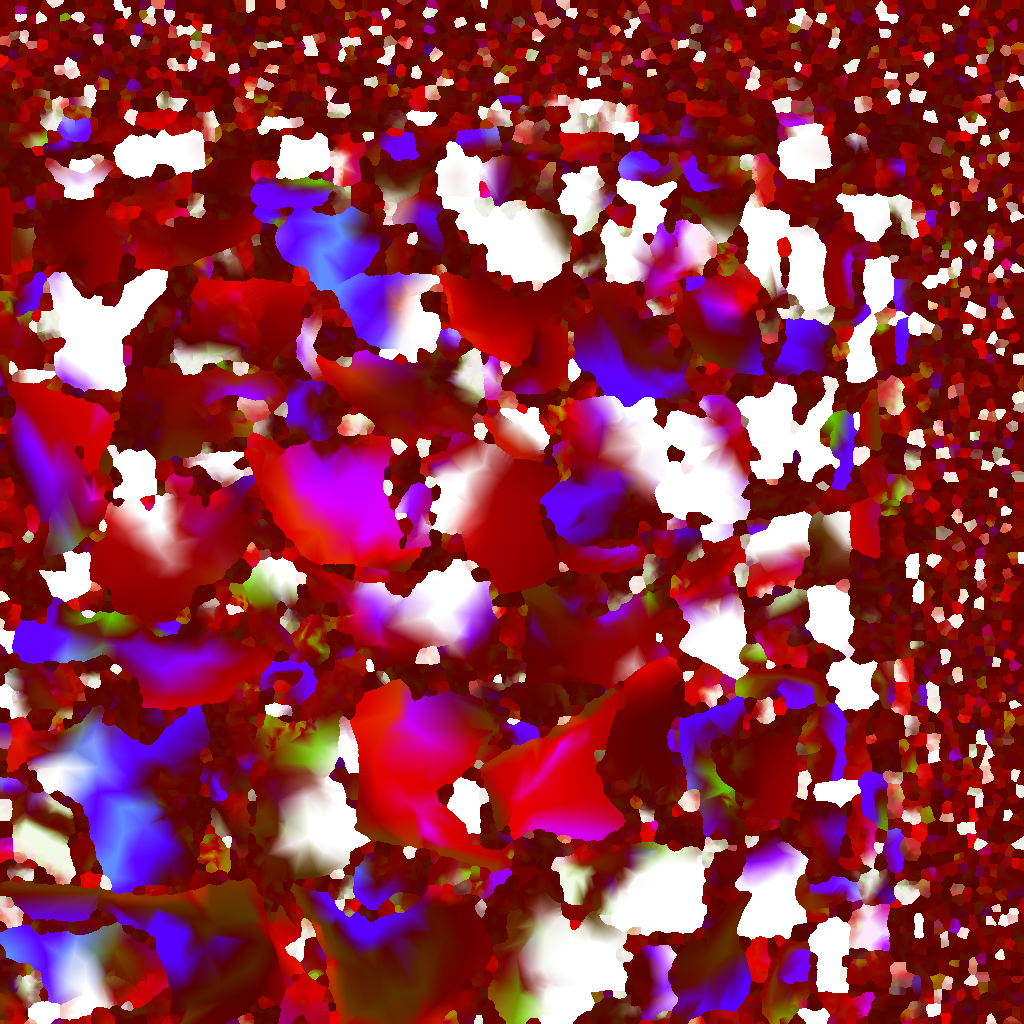
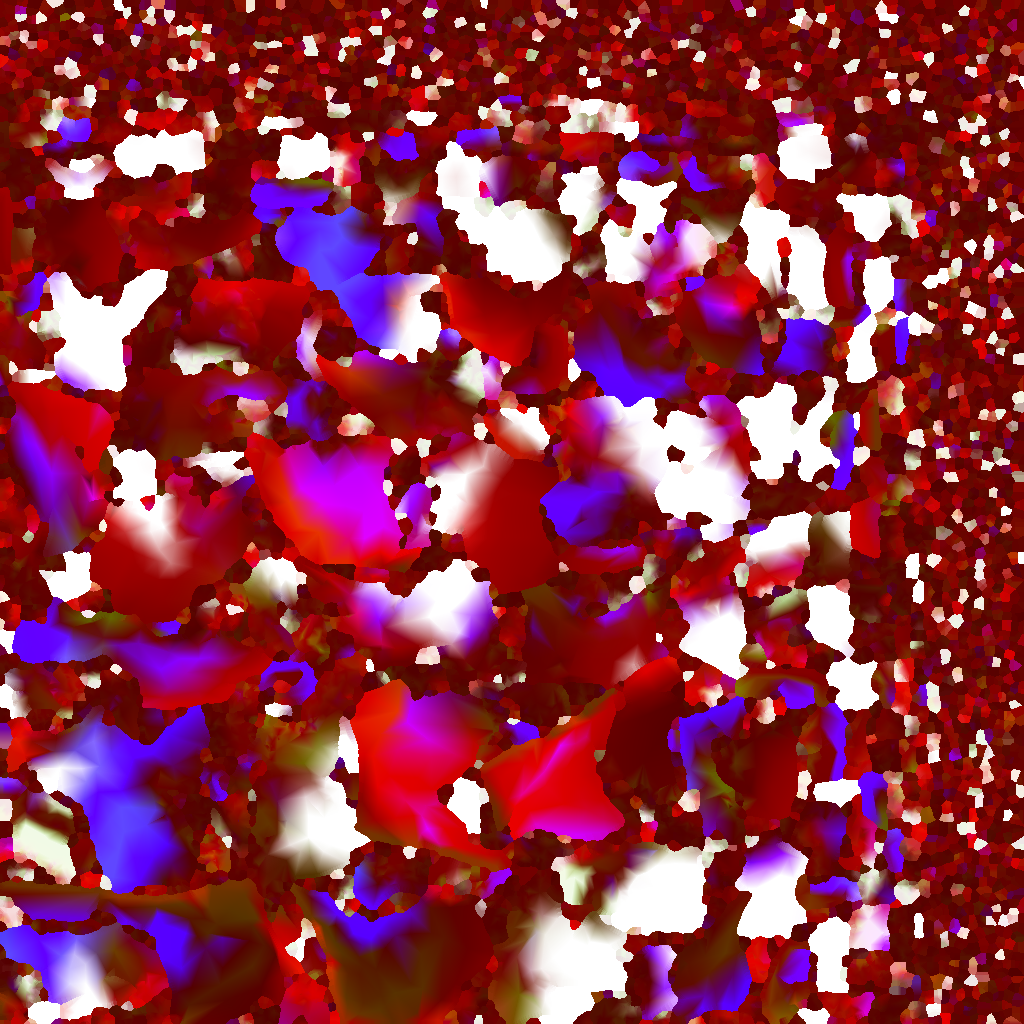
Warden 7 material (unjudged): face wet sheen halved on brow/cheekbones/bridge, lamp fill without glints, face normal 0.72; tabard matte faded blue with fade mottle, wet-dark lower third, hem mud, beard drip; quilting loft halved, uneven, worn and strap-pressed, matte darker; iron rough patches, pits

diff --git a/tools/assets/warden_id_map.py b/tools/assets/warden_id_map.py
@@ -12,7 +12,8 @@ by a 3D vote (fill3d()), then dilated gutters.
 Channels (2048, RGBA8; imported lossless, alpha untouched):
   R  class * 32 + puff (0..31): the class index (the shader texelFetches it and blends the 4 neighbours' params);
      the low bits (0..1): on the quilting, the padding's loft (0 in a stitch line, 1 on a channel's top: the shader
-     shades the grooves); elsewhere a free smooth noise (no shader reads it)
+     shades the grooves); on the tabard its fade (sun and river, 1 most faded); on the iron its convexity (0.5 flat,
+     1 a convex edge: wear; 0 a recess); elsewhere a free smooth noise
   G  bind height (y / 2 m): the wet gradient (soaked from the hem to the thigh, drier toward the shoulders)
   B,A  a detail normal (tangent-space x, y; 0.5 = flat): each class's 3D height (wool twill, tabard plain weave,
      quilting weave + sag and creasing noise, leather grain, iron dents), baked from the bind pose triplanar on the
@@ -28,13 +29,15 @@ Classes:
 
   python tools/assets/warden_wet_maps.py [PKG_DIR]     (first: its occlusion finds the face deep in the hood)
   python tools/assets/warden_id_map.py [PKG_DIR] [--size 2048] [--debug OUT_DIR]
-Writes PKG_DIR/id_generated.png (+ a class-colour picture in --debug OUT_DIR).
+Writes PKG_DIR/id_generated.png (+ a class-colour picture in --debug OUT_DIR), and fills wet_generated.png's B and A
+(body_extras(): the beard's drip, wet streaks; so run it after warden_wet_maps.py).
 Re-run after any change to body.glb's geometry or UVs (it reads only body.glb's "generated" surface).
 """
 import argparse, os, sys
 import numpy as np
 from PIL import Image
-from scipy import ndimage
+from scipy import ndimage, sparse
+from scipy.spatial import cKDTree
 
 sys.path.insert(0, os.path.dirname(os.path.abspath(__file__)))
 from warden_wet_maps import Glb  # noqa: E402
@@ -87,6 +90,27 @@ def raster_fields(uv, idx, vals, size):
     return out, have
 
 
+def curvature(P, N, idx, rings=3):
+    """Per-vertex convexity (m): the vertex against its welded neighbours' smoothed mean, along the smoothed normal;
+    + on convex edges (the iron's worn rims), - in recesses. The unwrap splits vertices at its seams: welded first."""
+    _, wid = np.unique(np.round(P / 1e-5).astype(np.int64), axis=0, return_inverse=True)
+    wid = wid.ravel(); nw = wid.max() + 1
+    e = wid[np.r_[idx[:, [0, 1]], idx[:, [1, 2]], idx[:, [2, 0]]]]
+    A = sparse.coo_matrix((np.ones(len(e) * 2), (np.r_[e[:, 0], e[:, 1]], np.r_[e[:, 1], e[:, 0]])), (nw, nw)).tocsr()
+    A.data[:] = 1.0
+    deg = np.maximum(np.asarray(A.sum(1)).ravel(), 1)[:, None]
+    cnt = np.bincount(wid, minlength=nw)[:, None].astype(float)
+    Pw = np.zeros((nw, 3)); np.add.at(Pw, wid, P); Pw /= cnt
+    Nw = np.zeros((nw, 3)); np.add.at(Nw, wid, N); Nw /= np.maximum(np.linalg.norm(Nw, axis=1, keepdims=True), 1e-9)
+    S = Pw.copy()
+    for _ in range(rings):
+        S = 0.5 * S + 0.5 * (A @ S) / deg
+    c = np.einsum("ij,ij->i", Pw - S, Nw)
+    for _ in range(1):
+        c = 0.5 * c + 0.5 * (A @ c[:, None]).ravel() / deg.ravel()
+    return c[wid]
+
+
 def seg_dist(P, a, b):
     """Distance from points to segment a-b and the parameter along it (0 at a, 1 at b)."""
     d = b - a
@@ -130,14 +154,15 @@ def features(pkg, size):
         arm[s] = np.where(dl < du, 1 + tl, tu)
         legr[s] = seg_dist(P[s], jpos[f"calf_{side}"], jpos[f"foot_{side}"])[0]
     arm *= (grp[:, 1] + grp[:, 2]) > 0.3  # (only on the arms: the legs sit near the forearm's line too)
-    vals = np.c_[P, N, grp, arm, legr, p["TANGENT"]].astype(np.float32)
+    curv = curvature(P, N, p["idx"])
+    vals = np.c_[P, N, grp, arm, legr, p["TANGENT"], curv].astype(np.float32)
     F, have = raster_fields(p["TEXCOORD_0"].astype(float), p["idx"], vals, size)
     pb = p["mat"]["pbrMetallicRoughness"]
     alb = np.asarray(g.image(pb["baseColorTexture"]["index"]).resize((size, size), Image.BOX), np.float32) / 255
     mr = np.asarray(g.image(pb["metallicRoughnessTexture"]["index"]).resize((size, size), Image.BOX), np.float32) / 255
     wet = os.path.join(pkg, "wet_generated.png")  # (warden_wet_maps.py's occlusion, same UVs: run that first)
     occ = np.asarray(Image.open(wet).convert("RGBA").resize((size, size), Image.BILINEAR), np.float32)[..., 1] / 255 if os.path.exists(wet) else np.zeros((size, size), np.float32)
-    return dict(occ=occ, P=F[..., 0:3], N=F[..., 3:6], grp=F[..., 6:12], arm=F[..., 12], legr=F[..., 13], T=F[..., 14:18], have=have,
+    return dict(occ=occ, P=F[..., 0:3], N=F[..., 3:6], grp=F[..., 6:12], arm=F[..., 12], legr=F[..., 13], T=F[..., 14:18], curv=F[..., 18], have=have,
                 alb=alb, metal=mr[..., 2], jpos=jpos)
 
 
@@ -226,10 +251,12 @@ DETAIL = {WOOL: (0.0065, True, 1.0, (0.0016, 0.35), (0.03, 0.6)),
 # the body and along the arms, thread-thin stitch lines between, each channel's loft lumpy along it and its own, the
 # padding flattened at the elbow's bend with creases across it
 QUILT_W = 0.034                    # channel width (m), at the reference radius (a whole number of channels round)
-QUILT_PUFF, QUILT_STITCH, QUILT_BEND = 3.0, 0.6, 1.2
+# (Warden 7 judge: it still read as a puffer jacket: the loft halved, the channels' widths uneven, worn flat in
+#  patches and pressed flat under the straps and the belt)
+QUILT_PUFF, QUILT_STITCH, QUILT_BEND = 1.5, 0.45, 1.0
 
 
-def quilt_cells(P, ax, ctr, rref, bend, shade=False):
+def quilt_cells(P, ax, ctr, rref, bend, press=None, shade=False):
     """The padding's height: P points; ax the channel's axis, ctr a point on it, rref the reference radius (per point);
     bend 0..1 (the elbow). Channels run along ax, spaced round it by angle (the seam where the angle wraps)."""
     up = np.where(np.abs(ax[:, 1:2]) < 0.9, [[0.0, 0.0, -1.0]], [[0.0, 0.0, -1.0]])
@@ -240,11 +267,18 @@ def quilt_cells(P, ax, ctr, rref, bend, shade=False):
     th = np.arctan2((d * v).sum(1), (d * u).sum(1))       # 0 at the back, +-pi in front
     n = np.round(2 * np.pi * rref / QUILT_W)
     c = (th + np.pi) / (2 * np.pi) * n                    # channel coordinate (whole channels round)
-    ch = np.floor(c); fr = c - ch
     along = (d * ax).sum(1)
+    # uneven widths: the channel coordinate warped by a slow noise of itself (monotone: slope < 1), wandering along
+    c = c + 0.38 * vnoise3(np.c_[c / 2.1, along / 0.35, rref * 7], 1.0, 52)
+    ch = np.floor(c); fr = c - ch
     hsh = ((ch.astype(np.int64) * 2654435761 + (rref * 1000).astype(np.int64) * 97) % 1000) / 1000.0
     lump = 0.75 + 0.35 * vnoise3(np.c_[along / 0.045, ch * 1.7, hsh * 9], 1.0, 43)
     loft = np.sin(np.pi * np.clip(fr, 0, 1)) ** 0.7 * (0.8 + 0.4 * hsh) * lump
+    # worn flat in patches (the padding compacted where it rubs), and pressed under the straps and belt
+    worn = np.clip((vnoise3(P, 0.08, 53) + 0.45 * vnoise3(P, 0.03, 54) - 0.1) / 0.5, 0, 1)
+    loft = loft * (1 - 0.75 * worn)
+    if press is not None:
+        loft = loft * (1 - 0.85 * press)
     stitch = 1 - np.clip(np.minimum(fr, 1 - fr) * QUILT_W / 0.0012, 0, 1)
     crease = np.sin(along / 0.011 + 3 * vnoise3(P, 0.03, 41)) * bend
     if shade:  # the padding's loft for the shader's groove shade: 0 down in the stitch line, 1 on the loft's top
@@ -270,7 +304,7 @@ def height(P, N, c, q=None):
         v += fine[1] * vnoise3(p, fine[0], 11)
         v += broad[1] * vnoise3(p, broad[0], 12) + 0.5 * broad[1] * vnoise3(p, broad[0] * 0.43, 13)
         if k == QUILT and q is not None:
-            v += quilt_cells(p, q[0][m], q[1][m], q[2][m], q[3][m])
+            v += quilt_cells(p, q[0][m], q[1][m], q[2][m], q[3][m], q[4][m])
         h[m] = v
     return h
 
@@ -296,7 +330,13 @@ def detail(f, cls, eps=0.0004):
             d = jp[f"{a1}_{side}"] - jp[f"{a0}_{side}"]
             ax[s & sel] = d / np.linalg.norm(d); ctr[s & sel] = jp[f"{a0}_{side}"]; rref[s & sel] = 0.06
     bend = np.clip(1 - np.abs(arm - 1.0) / 0.22, 0, 1) * (arm > 0)
-    q = (ax, ctr, rref, bend)
+    # the straps' and belt's press on the padding: near any leather in 3D
+    lp = f["P"][have][c == LEATHER]
+    press = np.zeros(len(P))
+    if len(lp):
+        dd, _ = cKDTree(lp[::3]).query(P[c == QUILT], distance_upper_bound=0.08)
+        press[c == QUILT] = np.clip((0.05 - np.minimum(dd, 0.08)) / 0.035, 0, 1)
+    q = (ax, ctr, rref, bend, press)
     out = np.zeros(have.shape + (2,), np.float32)
     dx = (height(P + eps * t, N, c, q) - height(P - eps * t, N, c, q)) / (2 * eps)
     dy = (height(P + eps * b, N, c, q) - height(P - eps * b, N, c, q)) / (2 * eps)
@@ -308,7 +348,18 @@ def detail(f, cls, eps=0.0004):
     pv = np.clip(0.5 + 0.5 * vnoise3(P, 0.035, 21) + 0.25 * vnoise3(P, 0.012, 22), 0, 1)
     m = c == QUILT  # (Warden 6 r3: on the quilting, the padding's loft: the shader shades its stitch grooves)
     if m.any():
-        pv[m] = quilt_cells(P[m], ax[m], ctr[m], rref[m], bend[m], shade=True)
+        pv[m] = quilt_cells(P[m], ax[m], ctr[m], rref[m], bend[m], press[m], shade=True)
+    # (Warden 7) the tabard: a broad fade (sun and river, uneven: 1 most faded); the iron: its convexity (0.5 flat,
+    #  1 a worn convex edge, 0 a recess), from the mesh's curvature over the iron's own spread
+    m = c == TABARD
+    if m.any():
+        fd = 0.5 + 0.45 * vnoise3(P[m], 0.16, 61) + 0.3 * vnoise3(P[m], 0.055, 62) + 0.12 * vnoise3(P[m], 0.018, 63)
+        pv[m] = np.clip(fd, 0, 1)
+    m = c == IRON
+    if m.any():
+        cv = f["curv"][have][m]
+        sc = max(np.percentile(np.abs(cv), 90), 1e-6)
+        pv[m] = np.clip(0.5 + 0.5 * cv / sc, 0, 1)
     puff[have] = pv
     return out, puff
 
@@ -346,6 +397,39 @@ def fill3d(cls, f, cell=0.05, frac=0.5):
     return out
 
 
+def body_extras(pkg, f, cls, size):
+    """Warden 7: the body's wet_generated.png B and A (zero from warden_wet_maps.py: they were the old TRELLIS head's
+    beard and face), per texel at this map's size, R and G kept (resampled):
+      B  the beard's drip: where his beard's tips (beard.glb, same bind) touch the tabard, and the run below them
+      A  wet streaks: thin vertical runs (3D noise stretched along y, 0.5 = none), the iron's and the cloth's"""
+    have = f["have"]; P = f["P"][have]
+    B = np.zeros(len(P), np.float32)
+    bg = os.path.join(pkg, "beard.glb")
+    if os.path.exists(bg):
+        g = Glb(bg)
+        bp = g.acc(g.j["meshes"][0]["primitives"][0]["attributes"]["POSITION"]).astype(float)
+        tips = bp[bp[:, 1] < bp[:, 1].min() + 0.1]
+        dd, k = cKDTree(tips).query(P, distance_upper_bound=0.3)
+        near = np.clip((0.06 - np.minimum(dd, 0.3)) / 0.04, 0, 1)
+        # the run below: under the tips' footprint (x, z near), down 0.16 m, ragged
+        lo = tips[:, 1].min()
+        dxz, _ = cKDTree(tips[:, [0, 2]]).query(P[:, [0, 2]], distance_upper_bound=0.3)
+        under = np.clip((0.05 - np.minimum(dxz, 0.3)) / 0.03, 0, 1) * np.clip(1 - (lo - P[:, 1]) / 0.16, 0, 1) * (P[:, 1] < lo + 0.02)
+        under *= np.clip(0.6 + 0.8 * vnoise3(np.c_[P[:, 0] / 0.012, P[:, 1] / 0.2, P[:, 2] / 0.012], 1.0, 72), 0, 1)
+        B = np.clip(np.maximum(near, under), 0, 1).astype(np.float32)
+    A = np.clip(0.5 + 0.9 * vnoise3(np.c_[P[:, 0] / 0.007, P[:, 1] / 0.14, P[:, 2] / 0.007], 1.0, 71)
+                + 0.3 * vnoise3(P, 0.05, 73), 0, 1).astype(np.float32)
+    ext = np.zeros(have.shape + (2,), np.float32); ext[have] = np.c_[B, A]
+    ext = dilate(ext, have)
+    wp = os.path.join(pkg, "wet_generated.png")
+    w = Image.open(wp).convert("RGBA")
+    rg = np.asarray(w.resize((size, size), Image.BILINEAR) if w.size != (size, size) else w, np.uint8)[..., :2]
+    out = np.zeros((size, size, 4), np.uint8); out[..., :2] = rg
+    out[..., 2:4] = np.clip(np.round(ext * 255), 0, 255).astype(np.uint8)
+    Image.fromarray(out, "RGBA").save(wp)
+    print(f"wet_generated.png: B beard drip {(B > 0.5).mean():.4f} of texels, A streaks mean {A.mean():.2f} ({size})")
+
+
 def dilate(cls, have):
     _, (iy, ix) = ndimage.distance_transform_edt(~have, return_indices=True)
     return cls[iy, ix]
@@ -371,6 +455,7 @@ def main():
     out[..., 1] = np.clip(np.round(hgt / 2.0 * 255), 0, 255).astype(np.uint8)
     out[..., 2:4] = np.clip(np.round((d * 0.5 + 0.5) * 255), 0, 255).astype(np.uint8)
     Image.fromarray(out, "RGBA").save(os.path.join(a.pkg, "id_generated.png"))
+    body_extras(a.pkg, f, cls, a.size)
     cov = f["have"]
     print("id_generated.png:", ", ".join(f"{n} {((cls == i) & cov).sum() / cov.sum():.3f}" for i, n in enumerate(NAMES)))
     if a.debug:

diff --git a/tools/assets/warden_face_maps.py b/tools/assets/warden_face_maps.py
@@ -6,7 +6,8 @@ baked in, so in a night shot the face read as a lit photo pasted on. This map gi
   R  de-light: the factor that takes the portrait's low-frequency shading out. The texture's luminance, low-passed over
      the surface, is fitted as a + c.n (an ambient term and one directional light along c); R = (mean / fit)^DELIGHT,
      stored /2 (0..2).
-  G  wet sheen, 0..0.8: brow ridge, nose, cheekbones, lower lids, lips (and the convex rest of the face a little);
+  G  wet sheen, 0..0.8: lower lids, lips, nose tip and nostrils; half that on the brow ridge, nose bridge and
+     cheekbones (and the convex rest of the face a little);
      0.8..1: the eyes (glassy).
   B  creases: concavity (the sockets' rims, nasolabial folds, the lids' fold, under the brow), 0..1.
   A  hair zones: scalp (the buzz cut) and beard/stubble, where the texture's dark specks are made the beard's grey.
@@ -188,6 +189,11 @@ def main():
     cs_ = np.percentile(np.abs(curv), 95)
     convex = np.clip(curv / cs_, 0, 1); concave = np.clip(-curv / cs_, 0, 1)
     wet = np.clip(np.maximum.reduce([brow, nose, cheek * 0.9, lids, lips]) * (0.7 + 0.3 * convex) + 0.25 * convex, 0, 1) * front
+    # (Warden 7 judge: the sheen halved on the brow, cheekbones and nose bridge; the lids, lips, nose tip and nostrils
+    #  keep theirs)
+    bridge = nose * smoothstep(-0.8, -0.55, y)
+    keep = np.maximum.reduce([lids, lips, nose * (1 - smoothstep(-0.8, -0.55, y))])
+    wet *= 1 - 0.5 * np.clip(np.maximum.reduce([brow, cheek, bridge]) * (1 - keep), 0, 1)
     G = 0.8 * wet * (1 - eyes) + eyes
     crease = np.clip(concave * 1.4, 0, 1) * (1 - eyes)
     # hair zones: the scalp (above the brow, round the back, the temples) and the beard (below the nose line, the jaw, the

diff --git a/godot/src/Actors/WardenLook.cs b/godot/src/Actors/WardenLook.cs
@@ -64,6 +64,7 @@ public static class WardenLook
                         w.SetShaderParameter("has_mr", src.RoughnessTexture != null);
                         // (the hood: no data map, the body's is not in its UVs)
                         if ((key == "head" ? head : key.StartsWith("hood") ? null : body) is { } d) w.SetShaderParameter("data_tex", d);
+                        if (key == "generated" && body != null) w.SetShaderParameter("body_data", true);
                         if ((key.StartsWith("hood") ? hoodId : key == "generated" ? id : null) is { } idm)
                         {
                             w.SetShaderParameter("id_near", idm);
